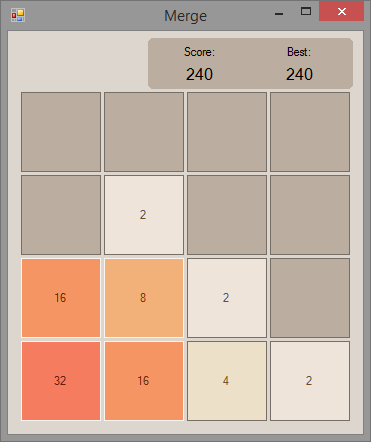
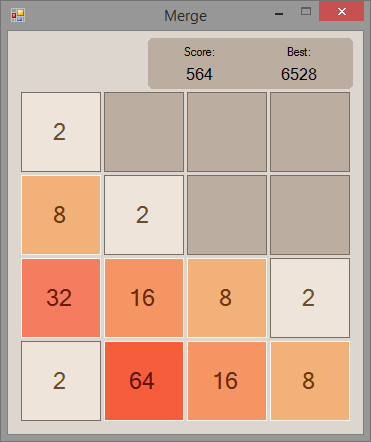
Minor style changes
Prevent user from maximizing.
Tile text larger.
Updated screenshot

diff --git a/Merge/Form1.cs b/Merge/Form1.cs
@@ -61,7 +61,8 @@ namespace Merge
                         Width = _settings.TileWidth,
                         Height = _settings.TileWidth,
                         Left = leftPadding + x * (_settings.TileWidth + widthPadding),
-                        Top = topPadding + y * (_settings.TileWidth + heightPadding)
+                        Top = topPadding + y * (_settings.TileWidth + heightPadding),
+                        Font = new Font(FontFamily.GenericSansSerif, 18)
                     };
 
                     this.Controls.Add(_gridButtons[x, y]);

diff --git a/Merge/Form1.Designer.cs b/Merge/Form1.Designer.cs
@@ -82,6 +82,7 @@
             this.Controls.Add(this.lblBestLabel);
             this.Controls.Add(this.lblScoreLabel);
             this.FormBorderStyle = System.Windows.Forms.FormBorderStyle.FixedSingle;
+            this.MaximizeBox = false;
             this.Name = "Form1";
             this.Text = "Merge";
             this.FormClosing += new System.Windows.Forms.FormClosingEventHandler(this.Form1_FormClosing);
